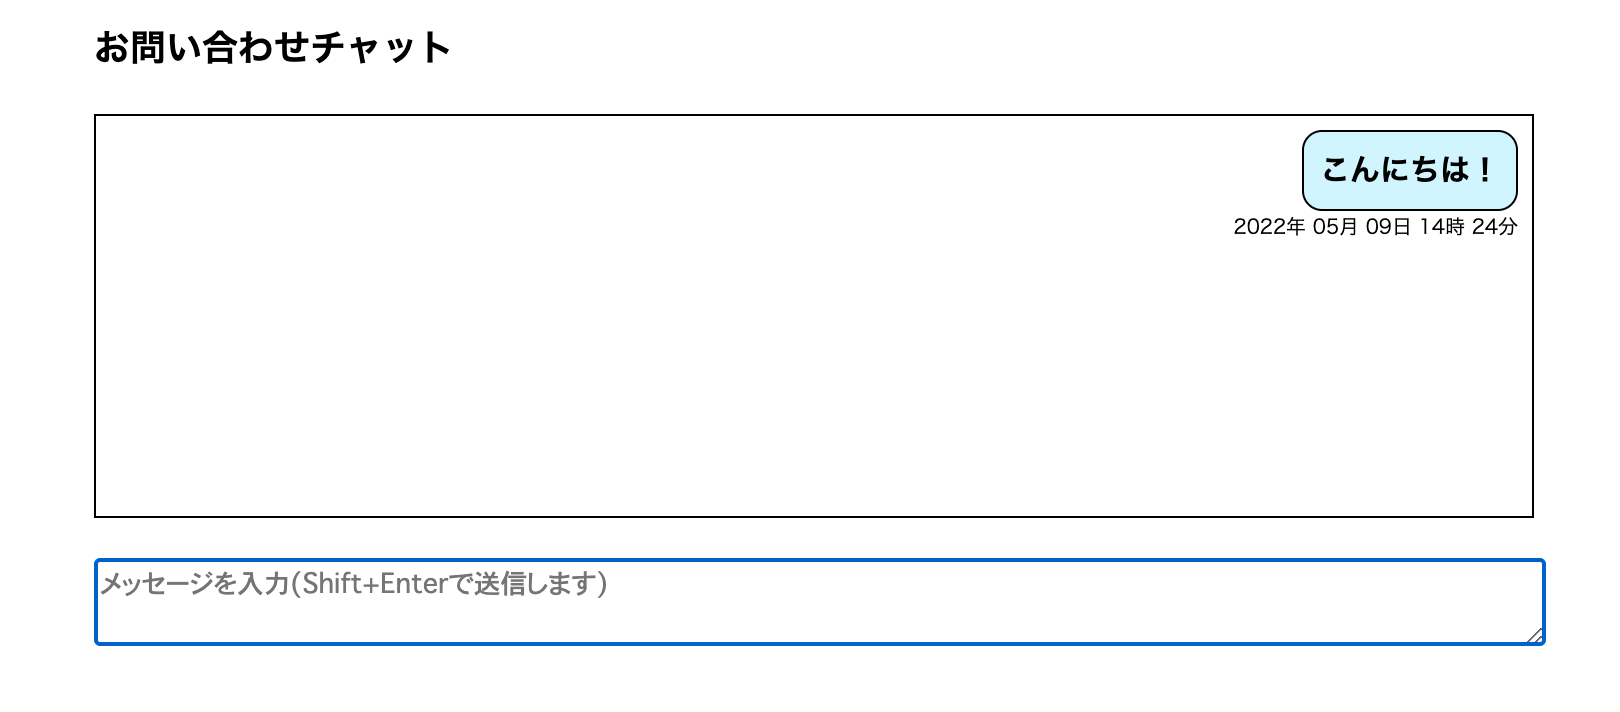
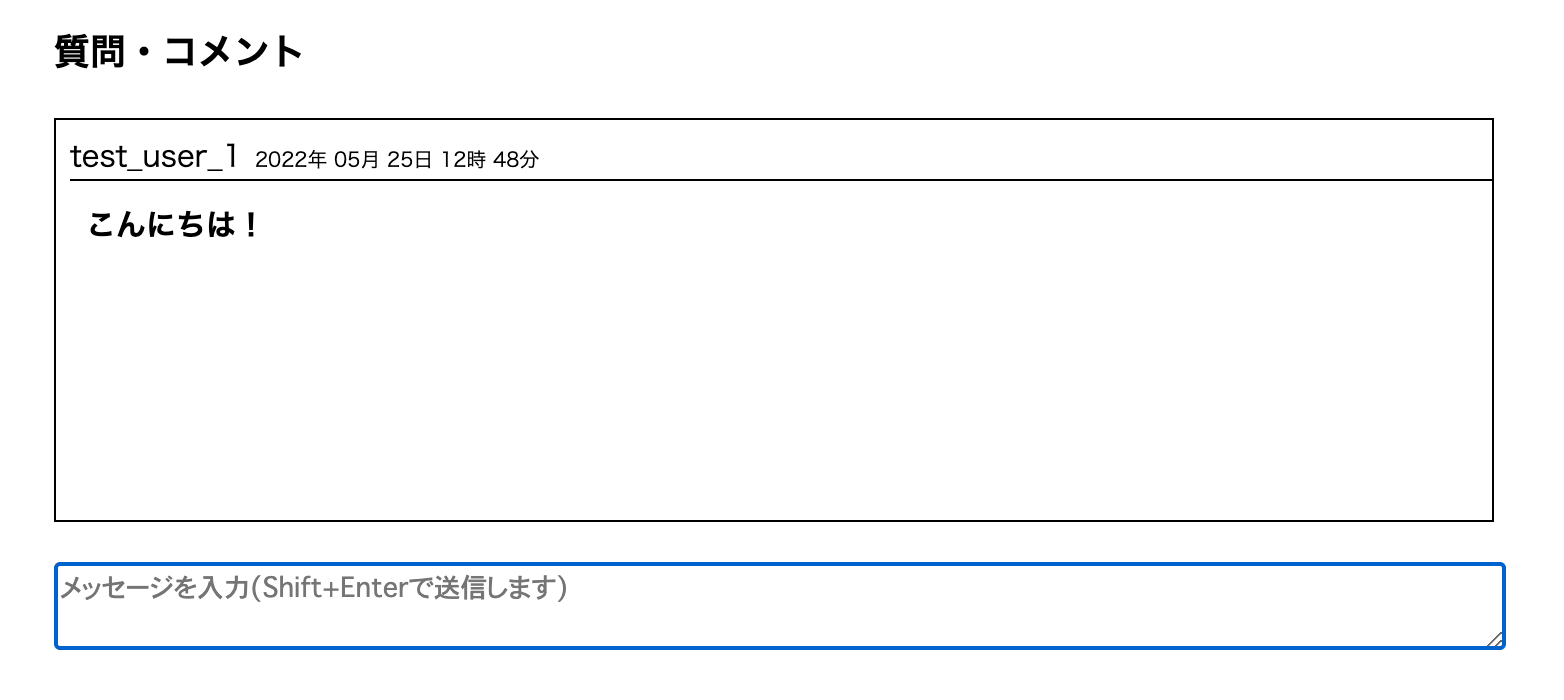
Fix message function

Changed region(s): [[0.0307, 0.15, 0.9514, 0.75], [0.0307, 0.78, 0.9821, 0.93], [0.0307, 0.03, 0.2762, 0.12]]

diff --git a/app/assets/stylesheets/application.css b/app/assets/stylesheets/application.css
@@ -79,7 +79,7 @@ body {
   width: 50%;
 }
 
-#messages {
+div[id^="messages"] {
   height: 200px;
   overflow-y: scroll;
   border: 1px solid black;
@@ -97,48 +97,30 @@ body {
   margin-bottom: 30px;
 }
 
-.current_user_message_wrapper {
-  text-align: right;
-  margin: 7px 7px 10px 0;
-}
-
-.current_user_message {
-  display: inline-block;
-  max-width: 50%;
-  text-align: left;
-  border: 1px solid black;
-  border-radius: 10px;
-  background-color: rgb(210, 245, 255);
-  word-break: break-all;
-  padding: 8px;
-}
-
-.current_user_message p {
-  font-size: 15px;
-  margin: 0;
-}
-
-.other_user_message_wrapper {
+.user_message_wrapper {
   text-align: left;
   margin: 7px 0 10px 7px;
 }
 
-.other_user_message {
+.user_message {
   display: inline-block;
-  max-width: 50%;
-  border: 1px solid black;
-  border-radius: 10px;
-  background-color: rgb(189, 255, 192);
   word-break: break-all;
   padding: 8px;
 }
 
-.other_user_message p {
+.user_message p {
   font-size: 15px;
   margin: 0;
 }
 
-.message_created {
+.message_info {
   display: block;
   font-size: 3px;
+  border-bottom: 1px solid black;
+  margin-bottom: 3px;
+}
+
+.message_created {
+  font-size: 15px;
+  margin-right: 3px;
 }

diff --git a/app/javascript/channels/room_channel.js b/app/javascript/channels/room_channel.js
@@ -11,7 +11,9 @@ const appRoom = consumer.subscriptions.create("RoomChannel", {
 
   received(data) {
     // Called when there's incoming data on the websocket for this channel
-    const messages = document.getElementById('messages');
+    const msg_post_id = data['message'].match(/"\d*[0-9]"/);
+    const post_id = msg_post_id[0].replace(/"/g, "");
+    const messages = document.getElementById("messages"+ post_id);
     messages.insertAdjacentHTML('beforeend', data['message']);
     messages.scrollTo(0, messages.scrollHeight);
   },

diff --git a/app/jobs/message_broadcast_job.rb b/app/jobs/message_broadcast_job.rb
@@ -10,6 +10,6 @@ class MessageBroadcastJob < ApplicationJob
 
 
   def render_message(message)
-    ApplicationController.renderer.render(partial: 'shared/message', locals: { message: message, current_user: message.user })
+    ApplicationController.renderer.render(partial: 'shared/message', locals: { message: message })
   end
 end
